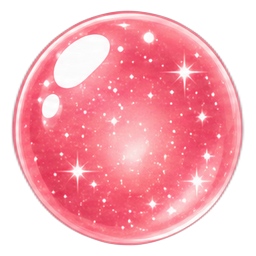
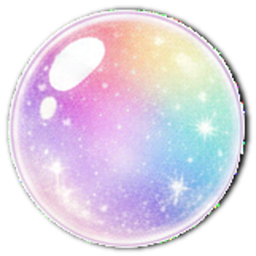
Rainbow wild-card bead replaces Cherry (red)
Slot 6 is now 'Rainbow' — a WILD CARD that matches with any beads at cash-in (2 pink + rainbow = 3 matching = Tier 3; rainbows also match each other). Logic centralized: determineTier + isCashable handle wilds (options prefer spending the fewest rainbows; labels show e.g. '2 + 1x rainbow -> Tier 3'), and cashInBeads now delegates to determineTier instead of duplicating tier math. Beads drawn from a rainbow slot are stamped isRainbow; persist v11 migrates slot 6 (def + existing wallet/jar beads). Visuals: bead-6.png replaced with the rainbow orb cropped from the new bead-row art (saturation-based segmentation — the beads connect via their drop shadows, so component/threshold splits failed); 3D jar renders wilds with a pastel hue-sweep texture + extra iridescence; jar_glass.py gets a Gem_Rainbow object-space gradient gem (hero re-render pending next Blender session). Unit-tested 11 matching scenarios via node.

diff --git a/src/engine/gameLogic.js b/src/engine/gameLogic.js
@@ -86,12 +86,16 @@ export function determineTier(cashedBeads) {
   const hasGold = cashedBeads.some(b => b.isGold)
   if (hasGold) return { activeTier: 3, isGoldShortcut: true }
 
-  // Count by slot number (NOT color — color is just display)
+  // Rainbow beads are WILD: each one extends the largest matching group by 1
+  // (rainbows alone also match each other — 3 rainbows = 3 matching).
+  const rainbows = cashedBeads.filter(b => b.isRainbow).length
+
+  // Count non-wild beads by slot number (NOT color — color is just display)
   const slotCounts = {}
   cashedBeads.forEach(b => {
-    if (b.slot != null) slotCounts[b.slot] = (slotCounts[b.slot] || 0) + 1
+    if (b.slot != null && !b.isRainbow) slotCounts[b.slot] = (slotCounts[b.slot] || 0) + 1
   })
-  const max = Math.max(0, ...Object.values(slotCounts))
+  const max = Math.max(0, ...Object.values(slotCounts)) + rainbows
 
   if (max >= 3) return { activeTier: 3, isGoldShortcut: false }
   if (max >= 2) return { activeTier: 2, isGoldShortcut: false }
@@ -115,24 +119,43 @@ export function isCashable(wallet) {
     options.push({ beads: [goldBeads[0]], tier: 3, label: '1 Gold Bead → Tier 3 ⚡' })
   }
 
-  // Group non-gold by slot
+  // Rainbow beads are WILD — they can complete any slot's group
+  const rainbows = wallet.filter(b => !b.isGold && b.isRainbow)
+
+  // Group non-gold, non-wild by slot
   const bySlot = {}
-  wallet.filter(b => !b.isGold).forEach(b => {
+  wallet.filter(b => !b.isGold && !b.isRainbow).forEach(b => {
     if (!bySlot[b.slot]) bySlot[b.slot] = []
     bySlot[b.slot].push(b)
   })
 
-  Object.entries(bySlot).forEach(([slot, beads]) => {
-    if (beads.length >= 3) {
-      options.push({ beads: beads.slice(0, 3), tier: 3, label: `3 matching → Tier 3` })
-    }
-    if (beads.length >= 2) {
-      options.push({ beads: beads.slice(0, 2), tier: 2, label: `2 matching → Tier 2` })
-    }
-  })
+  // group = real matching beads; pad with rainbows only as needed
+  const groupOption = (beads, tier, need) => {
+    const real = beads.slice(0, Math.min(need, beads.length))
+    const wilds = rainbows.slice(0, need - real.length)
+    if (real.length + wilds.length < need) return null
+    const label = wilds.length === 0
+      ? `${need} matching → Tier ${tier}`
+      : real.length === 0
+        ? `${wilds.length}× 🌈 → Tier ${tier}`
+        : `${real.length} + ${wilds.length}× 🌈 → Tier ${tier}`
+    return { beads: [...real, ...wilds], tier, label, wildsUsed: wilds.length }
+  }
 
-  // Sort by tier descending
-  options.sort((a, b) => b.tier - a.tier)
+  Object.values(bySlot).forEach(beads => {
+    const t3 = groupOption(beads, 3, 3)
+    if (t3) options.push(t3)
+    const t2 = groupOption(beads, 2, 2)
+    if (t2) options.push(t2)
+  })
+  // rainbows also match each other (a pure-wild group)
+  const r3 = groupOption([], 3, 3)
+  if (r3) options.push(r3)
+  const r2 = groupOption([], 2, 2)
+  if (r2) options.push(r2)
+
+  // Sort: highest tier first; among equals, spend the fewest wild cards
+  options.sort((a, b) => (b.tier - a.tier) || ((a.wildsUsed || 0) - (b.wildsUsed || 0)))
 
   // Always allow spinning — any single bead = Tier 1 fallback
   if (options.length === 0) {

diff --git a/src/components/BeadJar3D.jsx b/src/components/BeadJar3D.jsx
@@ -56,22 +56,43 @@ function deepen(hex) {
   c.setHSL(hsl.h, Math.min(1, hsl.s * 1.25 + 0.04), Math.max(0.3, hsl.l * 0.85))
   return c
 }
+// soft pastel hue sweep for the RAINBOW wild-card bead (one tiny texture, ever)
+let _rainbowTex = null
+function rainbowTexture() {
+  if (_rainbowTex) return _rainbowTex
+  const c = document.createElement('canvas')
+  c.width = c.height = 64
+  const g = c.getContext('2d')
+  const grad = g.createLinearGradient(0, 0, 64, 64)
+  const stops = ['#FFB3C8', '#FFD9A8', '#FDF6B0', '#B8F0C8', '#AFD9FF', '#D5BCFF', '#FFB3E0']
+  stops.forEach((s, i) => grad.addColorStop(i / (stops.length - 1), s))
+  g.fillStyle = grad
+  g.fillRect(0, 0, 64, 64)
+  _rainbowTex = new THREE.CanvasTexture(c)
+  _rainbowTex.colorSpace = THREE.SRGBColorSpace
+  return _rainbowTex
+}
+
+// glossy crystal marble base: light passes through (transmission), an
+// opalescent film shifts color at glancing angles (iridescence), and a hard
+// clearcoat gives the glassy highlight. Cost only while the pile is awake —
+// physics + render pause when settled.
+const MARBLE = {
+  metalness: 0, roughness: 0.05,
+  transmission: 0.55, thickness: 0.09, ior: 1.45,
+  iridescence: 0.45, iridescenceIOR: 1.3, iridescenceThicknessRange: [120, 400],
+  clearcoat: 1, clearcoatRoughness: 0.03, envMapIntensity: 0.8,
+}
 const beadMatCache = new Map()
-function beadMat(hex, isGold) {
-  const key = (isGold ? 'g' : 'c') + hex
+function beadMat(hex, isGold, isRainbow) {
+  const key = isGold ? 'g' : isRainbow ? 'r' : 'c' + hex
   if (!beadMatCache.has(key)) {
     beadMatCache.set(key, new THREE.MeshPhysicalMaterial(isGold
       ? { color: GOLD_HEX, metalness: 0.8, roughness: 0.16, clearcoat: 1, clearcoatRoughness: 0.06, envMapIntensity: 1.1 }
-      // glossy crystal marble: light passes through (transmission), an
-      // opalescent film shifts color at glancing angles (iridescence), and a
-      // hard clearcoat gives the glassy highlight. Cost only while the pile is
-      // awake — physics + render pause when settled.
-      : {
-          color: deepen(hex), metalness: 0, roughness: 0.05,
-          transmission: 0.55, thickness: 0.09, ior: 1.45,
-          iridescence: 0.45, iridescenceIOR: 1.3, iridescenceThicknessRange: [120, 400],
-          clearcoat: 1, clearcoatRoughness: 0.03, envMapIntensity: 0.8,
-        }))
+      : isRainbow
+        // wild card: pastel hue sweep + extra opalescence
+        ? { ...MARBLE, color: '#FFFFFF', map: rainbowTexture(), iridescence: 0.65 }
+        : { ...MARBLE, color: deepen(hex) }))
   }
   return beadMatCache.get(key)
 }
@@ -169,7 +190,7 @@ function Bead({ bead, register }) {
       ref={api => register(bead.id, api)}
       restitution={0.3} friction={0.55} linearDamping={0.35} angularDamping={0.8}>
       <BallCollider args={[BEAD_R]} />
-      <mesh geometry={beadGeo} material={beadMat(bead.color, bead.isGold)} scale={BEAD_R} />
+      <mesh geometry={beadGeo} material={beadMat(bead.color, bead.isGold, bead.isRainbow)} scale={BEAD_R} />
     </RigidBody>
   )
 }

diff --git a/src/store/useStore.js b/src/store/useStore.js
@@ -3,7 +3,7 @@ import { persist } from 'zustand/middleware'
 import { v4 as uuid } from 'uuid'
 import {
   resolveWheelSpin, resolveSlotSession, isGoodResult, TIER_COINS, COIN_SCALE,
-  computeQuitRisk,
+  computeQuitRisk, determineTier,
 } from '../engine/gameLogic'
 
 // ── Progressive jackpot tuning (scaled to COIN_SCALE) ──
@@ -84,7 +84,10 @@ const DEFAULT_BEAD_SLOTS = [
   { slot: 3, color: '#A9D2F5', name: 'Sky' },
   { slot: 4, color: '#B2EAD8', name: 'Mint' },
   { slot: 5, color: '#FCB8A3', name: 'Coral' },
-  { slot: 6, color: '#F87586', name: 'Cherry' },
+  // Rainbow = WILD CARD: matches with any slot when cashing in (see gameLogic
+  // determineTier/isCashable). color is a representative swatch for UI chips;
+  // real rendering is the rainbow PNG / rainbow 3D material.
+  { slot: 6, color: '#E5C0F5', name: 'Rainbow', rainbow: true },
 ]
 
 const DEFAULT_SESSION = {
@@ -171,7 +174,10 @@ const useStore = create(
         const roll = Math.random()
         const isGold = roll < (1 / 7)
         const slot = isGold ? null : (Math.floor(Math.random() * 6) + 1)
-        const bead = { id: uuid(), slot, isGold, habitId, earnedAt: Date.now() }
+        // beads drawn from a rainbow slot are wild cards (stamped on the bead
+        // so wallet/jar history keeps the flag even if slots are re-themed)
+        const isRainbow = !isGold && !!get().settings.beadSlots.find(s => s.slot === slot)?.rainbow
+        const bead = { id: uuid(), slot, isGold, isRainbow, habitId, earnedAt: Date.now() }
         set(s => ({
           wallet: [...s.wallet, bead],
           session: { ...s.session, drawnBead: bead, phase: 'habitDone' },
@@ -180,18 +186,8 @@ const useStore = create(
       },
 
       cashInBeads: (beads) => {
-        // Determine active tier
-        let activeTier = 1
-        const hasGold = beads.some(b => b.isGold)
-        if (hasGold) {
-          activeTier = 3
-        } else {
-          const slotCounts = {}
-          beads.forEach(b => { slotCounts[b.slot] = (slotCounts[b.slot] || 0) + 1 })
-          const max = Math.max(...Object.values(slotCounts))
-          if (max >= 3) activeTier = 3
-          else if (max >= 2) activeTier = 2
-        }
+        // single source of truth (handles gold shortcut + rainbow wild cards)
+        const { activeTier } = determineTier(beads)
 
         // Move beads from wallet to jar
         const beadIds = beads.map(b => b.id)
@@ -407,7 +403,7 @@ const useStore = create(
     }),
     {
       name: 'my-habit-addiction',
-      version: 10,
+      version: 11,
       migrate: (persisted, version) => {
         if (version < 2 && persisted.settings?.beadSlots) {
           persisted.settings.beadSlots = persisted.settings.beadSlots.map(s => {
@@ -468,6 +464,18 @@ const useStore = create(
         if (version < 10) {
           // Adaptive engagement engine — seed the learned per-user profile.
           persisted.engagement = { ...DEFAULT_ENGAGEMENT, ...(persisted.engagement || {}) }
+        }
+        if (version < 11) {
+          // Cherry (red) → RAINBOW wild card. Slot 6 becomes the rainbow slot,
+          // and every existing slot-6 bead in the wallet/jar becomes wild.
+          if (persisted.settings?.beadSlots) {
+            persisted.settings.beadSlots = persisted.settings.beadSlots.map(s =>
+              s.slot === 6 ? { ...s, color: '#E5C0F5', name: 'Rainbow', rainbow: true } : s
+            )
+          }
+          const stamp = b => (b.slot === 6 && !b.isGold) ? { ...b, isRainbow: true } : b
+          if (Array.isArray(persisted.wallet)) persisted.wallet = persisted.wallet.map(stamp)
+          if (Array.isArray(persisted.jarBeads)) persisted.jarBeads = persisted.jarBeads.map(stamp)
         }
         return persisted
       },

diff --git a/src/screens/HomeScreen.jsx b/src/screens/HomeScreen.jsx
@@ -54,9 +54,9 @@ function TeapotJar({ jarBeads, milestones, getBeadColor }) {
     : 150
   const capacity = Math.max(maxMilestone, jarBeads.length, 1)
 
-  // {id, color, isGold} for the 3D jar — oldest→newest so new beads drop last
+  // {id, color, isGold, isRainbow} for the 3D jar — oldest→newest so new beads drop last
   const beads3d = useMemo(
-    () => jarBeads.map(b => ({ id: b.id, color: getBeadColor(b.slot, b.isGold), isGold: b.isGold })),
+    () => jarBeads.map(b => ({ id: b.id, color: getBeadColor(b.slot, b.isGold), isGold: b.isGold, isRainbow: b.isRainbow })),
     [jarBeads, getBeadColor]
   )
 

diff --git a/blender/jar_glass.py b/blender/jar_glass.py
@@ -36,9 +36,10 @@ PROFILE_APOTHECARY = [(0.00,0.00),(0.62,0.00),(0.74,0.06),(0.76,0.18),(0.75,0.40
 ROUNDED_X, APOTH_X = -1.35, 1.5            # side-by-side placement
 
 # 7 bead colors: app DEFAULT_BEAD_SLOTS, saturated for 3D, + a gold that matches
-# coin_gold.py. (App slots: Rose Quartz, Orchid, Sky, Mint, Coral, Cherry.)
+# coin_gold.py. (App slots: Rose Quartz, Orchid, Sky, Mint, Coral, Rainbow —
+# the rainbow is the WILD CARD bead and gets its own gradient gem material.)
 BEAD_COLORS = [("RoseQuartz","#FF8FB8"),("Orchid","#C77BE6"),("Sky","#6FB4F2"),
-    ("Mint","#5FD3A8"),("Coral","#FF9472"),("Cherry","#F0506E")]
+    ("Mint","#5FD3A8"),("Coral","#FF9472")]
 GOLD_LINEAR = (1.0, 0.79, 0.32)            # lightened warm gold ~ the coin
 
 
@@ -126,6 +127,41 @@ def make_gem(name, hexcol=None, gold=False):
     nt.links.new(b.outputs[0], a1.inputs[0]); nt.links.new(eG.outputs[0], a1.inputs[1])
     nt.links.new(a1.outputs[0], a2.inputs[0]); nt.links.new(eS.outputs[0], a2.inputs[1])
     nt.links.new(a2.outputs[0], out.inputs[0])
+    return mat
+
+
+def make_gem_rainbow():
+    """RAINBOW wild-card gem: a soft pastel hue sweep across the bead (object-
+    space gradient -> hue) through the same glossy translucent gem body."""
+    mat = bpy.data.materials.get("Gem_Rainbow") or bpy.data.materials.new("Gem_Rainbow")
+    mat.use_nodes = True; nt = mat.node_tree
+    for n in list(nt.nodes): nt.nodes.remove(n)
+    out = nt.nodes.new("ShaderNodeOutputMaterial"); out.location = (900, 0)
+    b = nt.nodes.new("ShaderNodeBsdfPrincipled"); b.location = (520, 100)
+    _set(b, "Roughness", 0.05); _set(b, "IOR", 1.48)
+    _set(b, "Transmission Weight", 0.38)
+    _set(b, "Coat Weight", 1.0); _set(b, "Coat Roughness", 0.015)
+    # object-space diagonal gradient -> pastel hue wheel
+    tc = nt.nodes.new("ShaderNodeTexCoord"); tc.location = (-900, 0)
+    sep = nt.nodes.new("ShaderNodeSeparateXYZ"); sep.location = (-700, 0)
+    nt.links.new(tc.outputs["Object"], sep.inputs["Vector"])
+    add = nt.nodes.new("ShaderNodeMath"); add.operation = 'ADD'; add.location = (-520, 0)
+    nt.links.new(sep.outputs["X"], add.inputs[0]); nt.links.new(sep.outputs["Z"], add.inputs[1])
+    rng = nt.nodes.new("ShaderNodeMapRange"); rng.location = (-340, 0)
+    rng.inputs["From Min"].default_value = -1.4; rng.inputs["From Max"].default_value = 1.4
+    nt.links.new(add.outputs[0], rng.inputs["Value"])
+    hsv = nt.nodes.new("ShaderNodeCombineColor"); hsv.mode = 'HSV'; hsv.location = (-150, 0)
+    nt.links.new(rng.outputs["Result"], hsv.inputs[0])     # hue sweeps 0..1
+    hsv.inputs[1].default_value = 0.42                      # pastel saturation
+    hsv.inputs[2].default_value = 1.0
+    nt.links.new(hsv.outputs["Color"], b.inputs["Base Color"])
+    # gentle inner glow follows the gradient too
+    eG = nt.nodes.new("ShaderNodeEmission"); eG.location = (520, -160)
+    nt.links.new(hsv.outputs["Color"], eG.inputs["Color"])
+    eG.inputs["Strength"].default_value = 0.35
+    mix = nt.nodes.new("ShaderNodeAddShader"); mix.location = (730, 0)
+    nt.links.new(b.outputs[0], mix.inputs[0]); nt.links.new(eG.outputs[0], mix.inputs[1])
+    nt.links.new(mix.outputs[0], out.inputs[0])
     return mat
 
 
@@ -295,7 +331,8 @@ def setup_backdrop():
 def main():
     """Rebuild the procedural scene. Bow + HDRI come from jar_glass.blend / BlenderMCP."""
     glass = make_glass(); pearl_mat = make_pearl()
-    gem_mats = [make_gem(n, h) for (n, h) in BEAD_COLORS] + [make_gem("Gold", gold=True)]
+    gem_mats = ([make_gem(n, h) for (n, h) in BEAD_COLORS]
+                + [make_gem_rainbow(), make_gem("Gold", gold=True)])
 
     build_jar("Jar_Rounded", PROFILE_ROUNDED, (ROUNDED_X, 0, 0.02), glass)
     build_jar("Jar_Apothecary", PROFILE_APOTHECARY, (APOTH_X, 0, 0.02), glass)